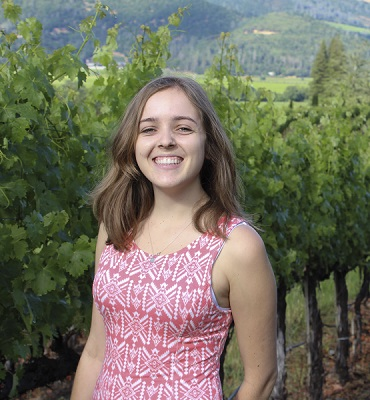
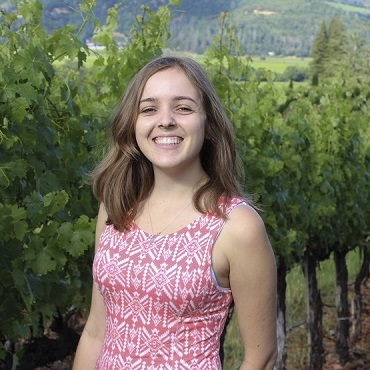
swapped out picture of myself

diff --git a/index.html b/index.html
@@ -113,16 +113,24 @@ develops solutions through art, psychology + empathy."/>
   </section>
     <a href="" id="about"></a>
     <section id="aboutMe">
-    <div>
+    <div id="aboutMe-desc">
       <h2>about me</h2>
-      <p id="aboutMe-desc">I attended the University of Califoria Davis where I studied my two passions design (specializing in graphics) and psychology. After graduating, I worked for a non-profit as a Junior
-        Graphic Designer, at the <a href="https://www.varep.net/">Veterans Association of Real Estate Professionals.</a> I then went on to work as an Account Coordinator/Designer for a marketing agency
-        called <a href="https://www.practicemindshare.com/">Mindshare Creative.</a>
-        <br><br>My main passions are art and psychology, and my core expertise is in graphic design, but I am also increasingly getting interested in UX and UI. Having a solid front end development foundation and a basic understanding of
-        html, css and javascript (what this site is built on), I am currently improving my skills for web design and development through my online curriculum at <a href="https://skillcrush.com/">Skillcrush.com.</a>
-        <br><br>If you'd like to connect, please send me a message below!</p>
+      <p>I attended the University of Califoria, Davis where I
+        studied my two passions design (specializing in graphics) and psychology.
+        After graduating, I worked for a non-profit as a Junior Graphic Designer,
+        at the <a href="https://www.varep.net/">Veterans Association of Real Estate Professionals.</a> I then went on to work as a Junior Account Manager/Junior
+        Art Director for a marketing agency called
+        <a href="https://www.practicemindshare.com/">Mindshare Creative.</a><br>
+        <br>My main passions are art and psychology, and my core expertise is in
+        graphic design, but I am also increasingly getting interested in UX and
+        UI. Having a solid front end development foundation and a basic
+        understanding of HTML5, CSS3 and Javascript (what this site is built on),
+        I am currently improving my skills for web design and development
+        through my online curriculum at <a href="https://skillcrush.com/">
+          Skillcrush.com.</a> <br><br>If you'd like to connect, please send me
+          a message below!</p>
     </div>
-      <img id="my-image" src="img/me-2.jpg" alt="picture of Dani"/>
+      <img id="my-image" src="img/me.jpg" alt="picture of Dani"/>
       <form method="POST" name="emailForm" action="https://formspree.io/dnmacedo1@gmail.com">
         <div>
           <label for="name">Name*</label>

diff --git a/css/main.css b/css/main.css
@@ -462,7 +462,7 @@
   main p {
     max-width: 800px;
     line-height: 22px;
-    margin: 0 50px 50px 0;
+    margin: 50px 0;
     clear: both;
   }
   p a {
@@ -500,12 +500,14 @@
     min-height: 1000px;
   }
   #aboutMe-desc {
-    clear: none;
+    float: left;
+    margin: 30px 0;
+    width: 800px;
   }
   #my-image {
-    width: 400px;
+    width: 370px;
     float: left;
-    top: 50px;
+    margin: 50px;
   }
   form {
     width: 50%;
